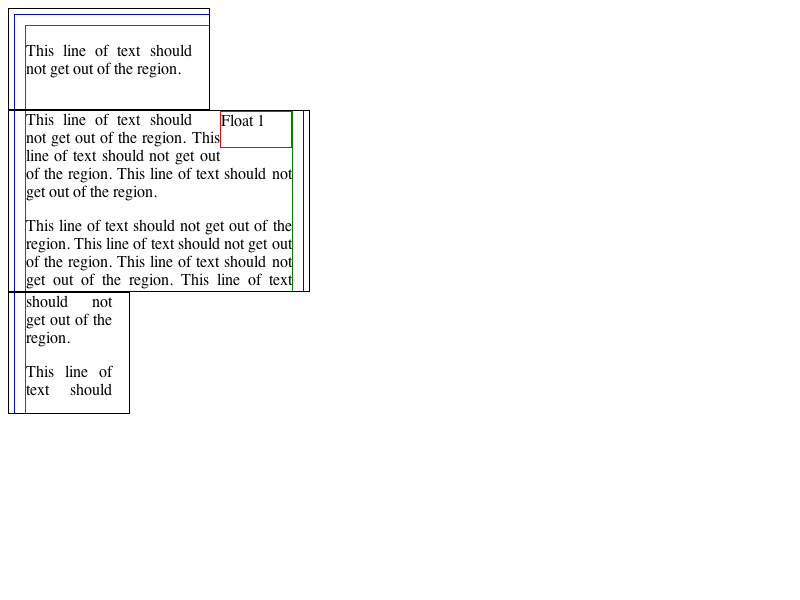
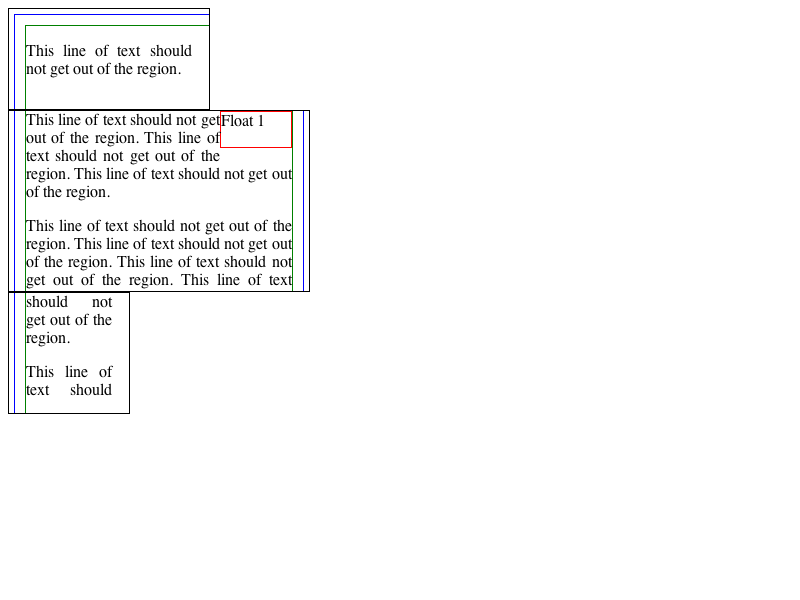
https://bugs.webkit.org/show_bug.cgi?id=68650
Make determineStartPosition smart enough to not skip over clean lines that have moved to a new
region with a different available content logical width. When this happens, we go ahead and treat
the line as dirty.

Reviewed by Sam Weinig.

Source/WebCore: 

Covered by existing fast/regions tests.

* rendering/RenderBlock.cpp:
(WebCore::RenderBlock::layoutBlock):
Disable region fitting if we detect that the regions all have uniform widths. In this case we know
the content width can't vary, so there's no reason to waste time worrying about it.

(WebCore::RenderBlock::computeLogicalLocationForFloat):
Pull the content width checking code into computeLogicalLocationForFloat, since we've incorporated
region fitting into the fixed offsets now rather than the line functions.

(WebCore::RenderBlock::positionNewFloats):
Changed because more code moved from here into computeLogicalLocationForFloat.
        
(WebCore::RenderBlock::adjustForRegionFittingIfNeeded):
No changes. Just moved the function above the left offset function.

(WebCore::RenderBlock::logicalLeftOffsetForContent):
(WebCore::RenderBlock::logicalRightOffsetForContent):
Added. These new functions give the fixed left and right offsets for lines in a particular region.
When no regions are present or when all the regions have a uniform width, they are identical
to the versions of the functions that take no arguments.

(WebCore::RenderBlock::logicalRightOffsetForLine):
[…]

Changed region(s): [[0.0312, 0.18, 0.375, 0.33]]

diff --git a/Source/WebCore/rendering/RenderBlock.cpp b/Source/WebCore/rendering/RenderBlock.cpp
@@ -1218,7 +1218,8 @@ void RenderBlock::layoutBlock(bool relayoutChildren, LayoutUnit pageLogicalHeigh
     RenderView* renderView = view();
     LayoutStateMaintainer statePusher(renderView, this, locationOffset(), hasColumns() || hasTransform() || hasReflection() || style()->isFlippedBlocksWritingMode(), pageLogicalHeight, pageLogicalHeightChanged, colInfo);
 
-    bool disableRegionFitting = renderView->hasRenderFlowThread() && (hasColumns() || (isPositioned() && !isRenderFlowThread()) || isFloating());
+    bool disableRegionFitting = renderView->hasRenderFlowThread() && (renderView->currentRenderFlowThread()->regionsHaveUniformLogicalWidth()
+        || hasColumns() || (isPositioned() && !isRenderFlowThread()) || isFloating());
     RegionFittingDisabler regionFittingDisabler(renderView->currentRenderFlowThread(), disableRegionFitting);
 
     // We use four values, maxTopPos, maxTopNeg, maxBottomPos, and maxBottomNeg, to track
@@ -3269,11 +3270,15 @@ void RenderBlock::removeFloatingObjectsBelow(FloatingObject* lastFloat, int logi
     }
 }
 
-LayoutPoint RenderBlock::computeLogicalLocationForFloat(const FloatingObject* floatingObject, LayoutUnit logicalTopOffset,
-    LayoutUnit logicalLeftOffset, LayoutUnit logicalRightOffset, LayoutUnit floatLogicalWidth) const
+LayoutPoint RenderBlock::computeLogicalLocationForFloat(const FloatingObject* floatingObject, LayoutUnit logicalTopOffset) const
 {
     RenderBox* childBox = floatingObject->renderer();
-
+    LayoutUnit logicalRightOffset = logicalRightOffsetForContent(logicalTopOffset); // Constant part of right offset.
+    LayoutUnit logicalLeftOffset = logicalLeftOffsetForContent(logicalTopOffset); // Constant part of left offset.
+    LayoutUnit floatLogicalWidth = logicalWidthForFloat(floatingObject); // The width we look for.
+    if (logicalRightOffset - logicalLeftOffset < floatLogicalWidth)
+        floatLogicalWidth = logicalRightOffset - logicalLeftOffset; // Never look for more than what will be available.
+       
     LayoutUnit floatLogicalLeft;
 
     if (childBox->style()->floating() == LeftFloat) {
@@ -3349,12 +3354,6 @@ bool RenderBlock::positionNewFloats()
         RenderBox* childBox = floatingObject->renderer();
         LayoutUnit childLogicalLeftMargin = style()->isLeftToRightDirection() ? marginStartForChild(childBox) : marginEndForChild(childBox);
 
-        LayoutUnit rightOffset = logicalRightOffsetForContent(); // Constant part of right offset.
-        LayoutUnit leftOffset = logicalLeftOffsetForContent(); // Constant part of left offset.
-        LayoutUnit floatLogicalWidth = logicalWidthForFloat(floatingObject); // The width we look for.
-        if (rightOffset - leftOffset < floatLogicalWidth)
-            floatLogicalWidth = rightOffset - leftOffset; // Never look for more than what will be available.
-        
         LayoutRect oldRect(childBox->x(), childBox->y() , childBox->width(), childBox->height());
 
         if (childBox->style()->clear() & CLEFT)
@@ -3362,7 +3361,7 @@ bool RenderBlock::positionNewFloats()
         if (childBox->style()->clear() & CRIGHT)
             logicalTop = max(lowestFloatLogicalBottom(FloatingObject::FloatRight), logicalTop);
 
-        LayoutPoint floatLogicalLocation = computeLogicalLocationForFloat(floatingObject, logicalTop, leftOffset, rightOffset, floatLogicalWidth);
+        LayoutPoint floatLogicalLocation = computeLogicalLocationForFloat(floatingObject, logicalTop);
 
         setLogicalLeftForFloat(floatingObject, floatLogicalLocation.x());
         setLogicalLeftForChild(childBox, floatLogicalLocation.x() + childLogicalLeftMargin);
@@ -3390,7 +3389,7 @@ bool RenderBlock::positionNewFloats()
             if (newLogicalTop != floatLogicalLocation.y()) {
                 floatingObject->m_paginationStrut = newLogicalTop - floatLogicalLocation.y();
 
-                floatLogicalLocation = computeLogicalLocationForFloat(floatingObject, newLogicalTop, leftOffset, rightOffset, floatLogicalWidth);
+                floatLogicalLocation = computeLogicalLocationForFloat(floatingObject, newLogicalTop);
                 setLogicalLeftForFloat(floatingObject, floatLogicalLocation.x());
                 setLogicalLeftForChild(childBox, floatLogicalLocation.x() + childLogicalLeftMargin);
                 setLogicalTopForChild(childBox, floatLogicalLocation.y() + marginBeforeForChild(childBox));
@@ -3538,6 +3537,34 @@ LayoutUnit RenderBlock::textIndentOffset() const
     return style()->textIndent().calcMinValue(cw);
 }
 
+void RenderBlock::adjustForRegionFittingIfNeeded(LayoutUnit logicalTop, LayoutUnit& rightOffset) const
+{
+    RenderView* renderView = view();
+    if (!renderView->hasRenderFlowThread())
+        return;
+    
+    RenderFlowThread* flowThread = renderView->currentRenderFlowThread();
+    if (!flowThread->isRegionFittingEnabled() || !flowThread->hasValidRegions())
+        return;
+
+    LayoutUnit regionWidth = flowThread->regionLogicalWidthForLine(logicalPageOffset() + logicalTop);
+    rightOffset -= flowThread->logicalWidth() - regionWidth;
+}
+
+LayoutUnit RenderBlock::logicalLeftOffsetForContent(LayoutUnit) const
+{
+    // FIXME: For now we don't adjust this at all. Eventually when we have RTL blocks or centered blocks, where the left offset
+    // can shift, then we will have to make an adjustment.
+    return logicalLeftOffsetForContent();
+}
+
+LayoutUnit RenderBlock::logicalRightOffsetForContent(LayoutUnit position) const
+{
+    LayoutUnit logicalRightOffset = logicalRightOffsetForContent();
+    adjustForRegionFittingIfNeeded(position, logicalRightOffset);
+    return logicalRightOffset;
+}
+
 LayoutUnit RenderBlock::logicalLeftOffsetForLine(LayoutUnit logicalTop, LayoutUnit fixedOffset, bool applyTextIndent, LayoutUnit* heightRemaining) const
 {
     LayoutUnit left = fixedOffset;
@@ -3555,25 +3582,9 @@ LayoutUnit RenderBlock::logicalLeftOffsetForLine(LayoutUnit logicalTop, LayoutUn
     return left;
 }
 
-void RenderBlock::adjustForRegionFittingIfNeeded(LayoutUnit logicalTop, LayoutUnit& rightOffset) const
-{
-    RenderView* renderView = view();
-    if (!renderView->hasRenderFlowThread())
-        return;
-    
-    RenderFlowThread* flowThread = renderView->currentRenderFlowThread();
-    if (!flowThread->isRegionFittingEnabled() || !flowThread->hasValidRegions())
-        return;
-
-    LayoutUnit regionWidth = flowThread->regionLogicalWidthForLine(logicalPageOffset() + logicalTop);
-    rightOffset -= flowThread->logicalWidth() - regionWidth;
-}
-
 LayoutUnit RenderBlock::logicalRightOffsetForLine(LayoutUnit logicalTop, LayoutUnit fixedOffset, bool applyTextIndent, LayoutUnit* heightRemaining) const
 {
     LayoutUnit right = fixedOffset;
-    adjustForRegionFittingIfNeeded(logicalTop, right);
-
     if (m_floatingObjects && m_floatingObjects->hasRightObjects()) {
         if (heightRemaining)
             *heightRemaining = 1;
@@ -6336,6 +6347,14 @@ LayoutUnit RenderBlock::adjustBlockChildForPagination(LayoutUnit logicalTopAfter
     
     // Return the final adjusted logical top.
     return result;
+}
+
+bool RenderBlock::lineWidthForPaginatedLineChanged(RootInlineBox* rootBox) const
+{
+    if (!view()->hasRenderFlowThread() || view()->currentRenderFlowThread()->regionsHaveUniformLogicalWidth())
+        return false;
+
+    return rootBox->paginatedLineWidth() != availableLogicalWidthForContent(rootBox->lineTopWithLeading());
 }
 
 LayoutUnit RenderBlock::collapsedMarginBeforeForChild(RenderBox* child) const

diff --git a/Source/WebCore/rendering/RenderBlock.h b/Source/WebCore/rendering/RenderBlock.h
@@ -126,8 +126,8 @@ public:
     bool containsFloat(RenderBox*);
 
     LayoutUnit availableLogicalWidthForLine(LayoutUnit position, bool firstLine) const;
-    LayoutUnit logicalRightOffsetForLine(LayoutUnit position, bool firstLine) const { return logicalRightOffsetForLine(position, logicalRightOffsetForContent(), firstLine); }
-    LayoutUnit logicalLeftOffsetForLine(LayoutUnit position, bool firstLine) const { return logicalLeftOffsetForLine(position, logicalLeftOffsetForContent(), firstLine); }
+    LayoutUnit logicalRightOffsetForLine(LayoutUnit position, bool firstLine) const { return logicalRightOffsetForLine(position, logicalRightOffsetForContent(position), firstLine); }
+    LayoutUnit logicalLeftOffsetForLine(LayoutUnit position, bool firstLine) const { return logicalLeftOffsetForLine(position, logicalLeftOffsetForContent(position), firstLine); }
     LayoutUnit startOffsetForLine(LayoutUnit position, bool firstLine) const { return style()->isLeftToRightDirection() ? logicalLeftOffsetForLine(position, firstLine) : width() - logicalRightOffsetForLine(position, firstLine); }
     LayoutUnit startAlignedOffsetForLine(RenderBox* child, LayoutUnit position, bool firstLine);
     LayoutUnit textIndentOffset() const;
@@ -259,8 +259,12 @@ public:
 
     virtual void scrollbarsChanged(bool /*horizontalScrollbarChanged*/, bool /*verticalScrollbarChanged*/) { };
 
-    int logicalRightOffsetForContent() const { return isHorizontalWritingMode() ? borderLeft() + paddingLeft() + availableLogicalWidth() : borderTop() + paddingTop() + availableLogicalWidth(); }
-    int logicalLeftOffsetForContent() const { return isHorizontalWritingMode() ? borderLeft() + paddingLeft() : borderTop() + paddingTop(); }
+    LayoutUnit logicalRightOffsetForContent() const { return isHorizontalWritingMode() ? borderLeft() + paddingLeft() + availableLogicalWidth() : borderTop() + paddingTop() + availableLogicalWidth(); }
+    LayoutUnit logicalLeftOffsetForContent() const { return isHorizontalWritingMode() ? borderLeft() + paddingLeft() : borderTop() + paddingTop(); }
+
+    LayoutUnit logicalLeftOffsetForContent(LayoutUnit position) const;
+    LayoutUnit logicalRightOffsetForContent(LayoutUnit position) const;
+    LayoutUnit availableLogicalWidthForContent(LayoutUnit position) const { return max(0, logicalRightOffsetForContent(position) - logicalLeftOffsetForContent(position)); }
 
 #ifndef NDEBUG
     void showLineTreeAndMark(const InlineBox* = 0, const char* = 0, const InlineBox* = 0, const char* = 0, const RenderObject* = 0) const;
@@ -555,8 +559,7 @@ private:
             return child->y() + child->renderer()->marginTop();
     }
 
-    LayoutPoint computeLogicalLocationForFloat(const FloatingObject*, LayoutUnit logicalTopOffset, LayoutUnit logicalLeftOffset,
-        LayoutUnit logicalRightOffset, LayoutUnit floatLogicalWidth) const;
+    LayoutPoint computeLogicalLocationForFloat(const FloatingObject*, LayoutUnit logicalTopOffset) const;
 
     // The following functions' implementations are in RenderBlockLineLayout.cpp.
     typedef std::pair<RenderText*, LazyLineBreakIterator> LineBreakIteratorInfo;
@@ -824,6 +827,11 @@ private:
     LayoutUnit adjustForUnsplittableChild(RenderBox* child, LayoutUnit logicalOffset, bool includeMargins = false); // If the child is unsplittable and can't fit on the current page, return the top of the next page/column.
     void adjustLinePositionForPagination(RootInlineBox*, LayoutUnit& deltaOffset); // Computes a deltaOffset value that put a line at the top of the next page if it doesn't fit on the current page.
     LayoutUnit adjustBlockChildForPagination(LayoutUnit logicalTopAfterClear, LayoutUnit estimateWithoutPagination, RenderBox* child, bool atBeforeSideOfBlock);
+
+    // This function is called to test a line box that has moved in the block direction to see if it has ended up in a new
+    // region/page/column that has a different available line width than the old one. Used to know when you have to dirty a
+    // line, i.e., that it can't be re-used.
+    bool lineWidthForPaginatedLineChanged(RootInlineBox*) const;
 
     struct FloatingObjectHashFunctions {
         static unsigned hash(FloatingObject* key) { return DefaultHash<RenderBox*>::Hash::hash(key->m_renderer); }

diff --git a/Source/WebCore/rendering/RenderBlockLineLayout.cpp b/Source/WebCore/rendering/RenderBlockLineLayout.cpp
@@ -1235,6 +1235,7 @@ void RenderBlock::linkToEndLineIfNeeded(LineLayoutState& layoutState)
             int blockLogicalHeight = logicalHeight();
             trailingFloatsLineBox->alignBoxesInBlockDirection(blockLogicalHeight, textBoxDataMap, verticalPositionCache);
             trailingFloatsLineBox->setLineTopBottomPositions(blockLogicalHeight, blockLogicalHeight, blockLogicalHeight, blockLogicalHeight);
+            trailingFloatsLineBox->setPaginatedLineWidth(availableLogicalWidthForContent(blockLogicalHeight));
             IntRect logicalLayoutOverflow(0, blockLogicalHeight, 1, bottomLayoutOverflow - blockLogicalHeight);
             IntRect logicalVisualOverflow(0, blockLogicalHeight, 1, bottomVisualOverflow - blockLogicalHeight);
             trailingFloatsLineBox->setOverflowFromLogicalRects(logicalLayoutOverflow, logicalVisualOverflow, trailingFloatsLineBox->lineTop(), trailingFloatsLineBox->lineBottom());
@@ -1401,6 +1402,10 @@ RootInlineBox* RenderBlock::determineStartPosition(LineLayoutState& layoutState,
         size_t floatIndex = 0;
         for (curr = firstRootBox(); curr && !curr->isDirty(); curr = curr->nextRootBox()) {
             if (paginated) {
+                if (lineWidthForPaginatedLineChanged(curr)) {
+                    curr->markDirty();
+                    break;
+                }
                 paginationDelta -= curr->paginationStrut();
                 adjustLinePositionForPagination(curr, paginationDelta);
                 if (paginationDelta) {

diff --git a/Source/WebCore/rendering/RootInlineBox.h b/Source/WebCore/rendering/RootInlineBox.h
@@ -53,8 +53,11 @@ public:
     LayoutUnit lineTopWithLeading() const { return m_lineTopWithLeading; }
     LayoutUnit lineBottomWithLeading() const { return m_lineBottomWithLeading; }
     
-    int paginationStrut() const { return m_paginationStrut; }
-    void setPaginationStrut(int s) { m_paginationStrut = s; }
+    LayoutUnit paginationStrut() const { return m_paginationStrut; }
+    void setPaginationStrut(LayoutUnit s) { m_paginationStrut = s; }
+
+    LayoutUnit paginatedLineWidth() const { return m_paginatedLineWidth; }
+    void setPaginatedLineWidth(LayoutUnit width) { m_paginatedLineWidth = width; }
 
     LayoutUnit selectionTop() const;
     LayoutUnit selectionBottom() const;
@@ -193,7 +196,8 @@ private:
     LayoutUnit m_lineTopWithLeading;
     LayoutUnit m_lineBottomWithLeading;
 
-    int m_paginationStrut;
+    LayoutUnit m_paginationStrut;
+    LayoutUnit m_paginatedLineWidth;
 
     // Floats hanging off the line are pushed into this vector during layout. It is only
     // good for as long as the line has not been marked dirty.

diff --git a/Source/WebCore/rendering/RootInlineBox.cpp b/Source/WebCore/rendering/RootInlineBox.cpp
@@ -51,6 +51,7 @@ RootInlineBox::RootInlineBox(RenderBlock* block)
     , m_lineTopWithLeading(0)
     , m_lineBottomWithLeading(0)
     , m_paginationStrut(0)
+    , m_paginatedLineWidth(0)
     , m_baselineType(AlphabeticBaseline)
     , m_hasAnnotationsBefore(false)
     , m_hasAnnotationsAfter(false)
@@ -276,6 +277,7 @@ LayoutUnit RootInlineBox::alignBoxesInBlockDirection(LayoutUnit heightOfBlock, G
     maxHeight = max<LayoutUnit>(0, maxHeight); // FIXME: Is this really necessary?
 
     setLineTopBottomPositions(lineTop, lineBottom, heightOfBlock, heightOfBlock + maxHeight);
+    setPaginatedLineWidth(block()->availableLogicalWidthForContent(heightOfBlock));
 
     int annotationsAdjustment = beforeAnnotationsAdjustment();
     if (annotationsAdjustment) {
